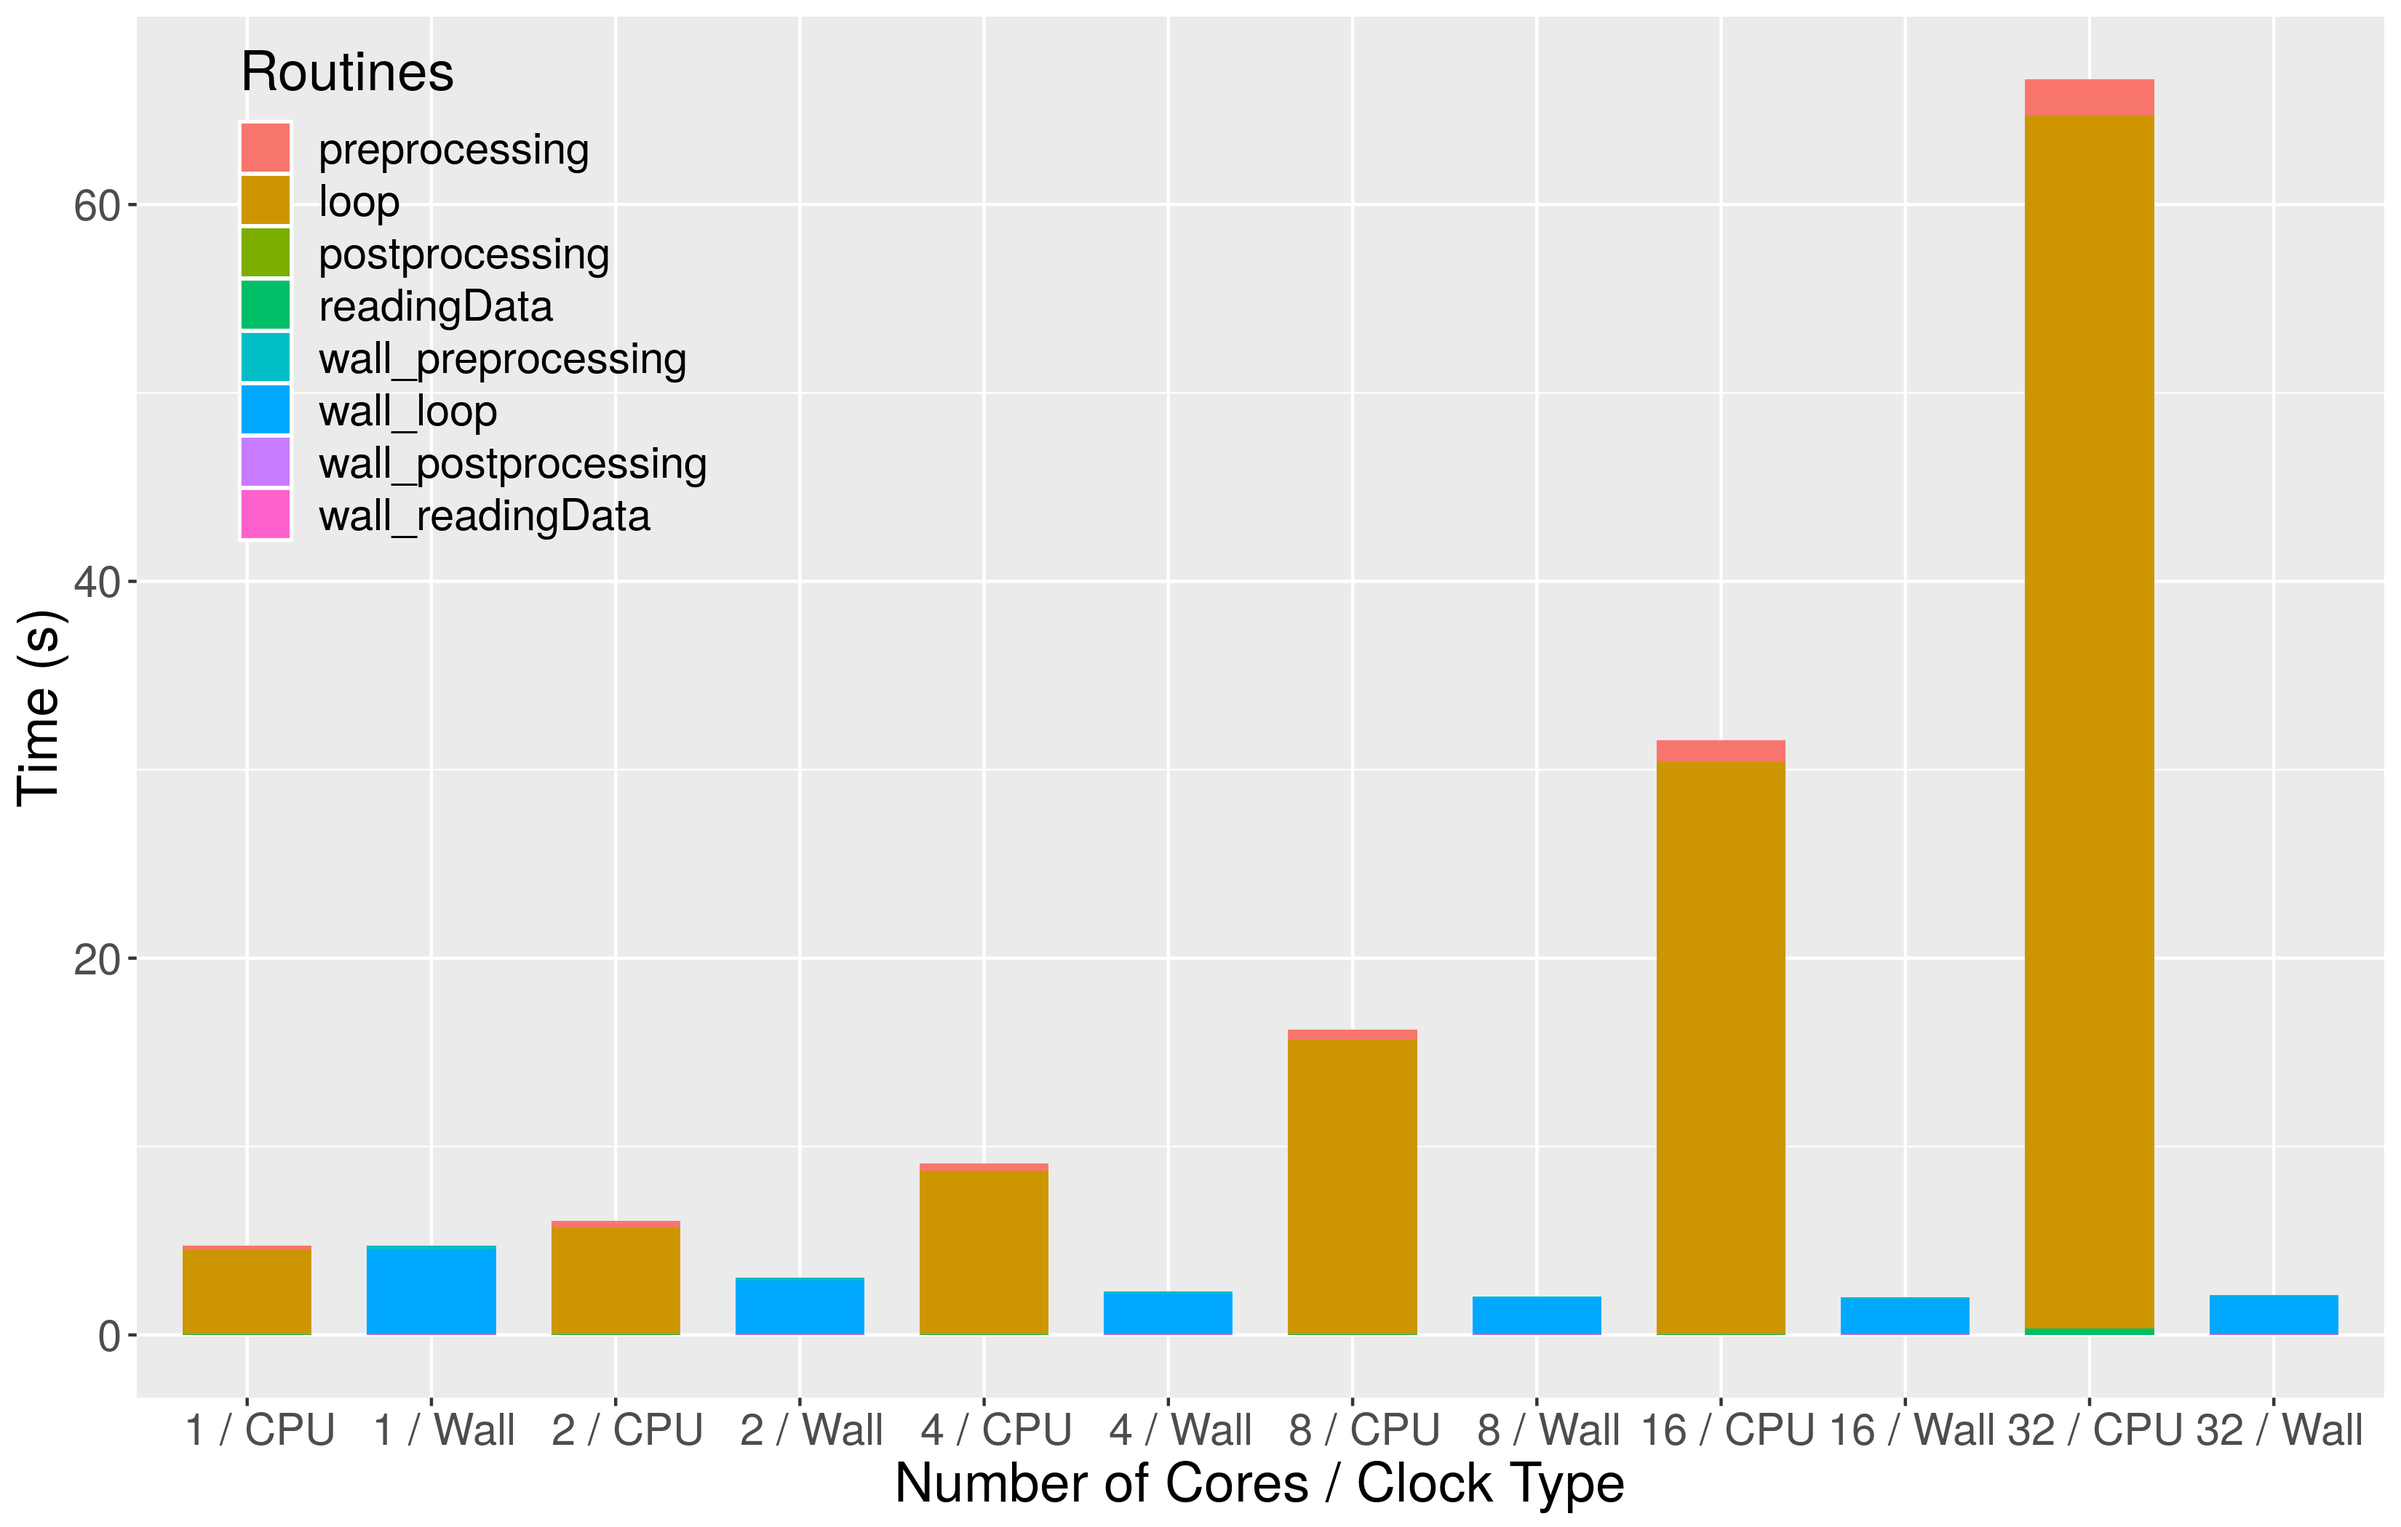
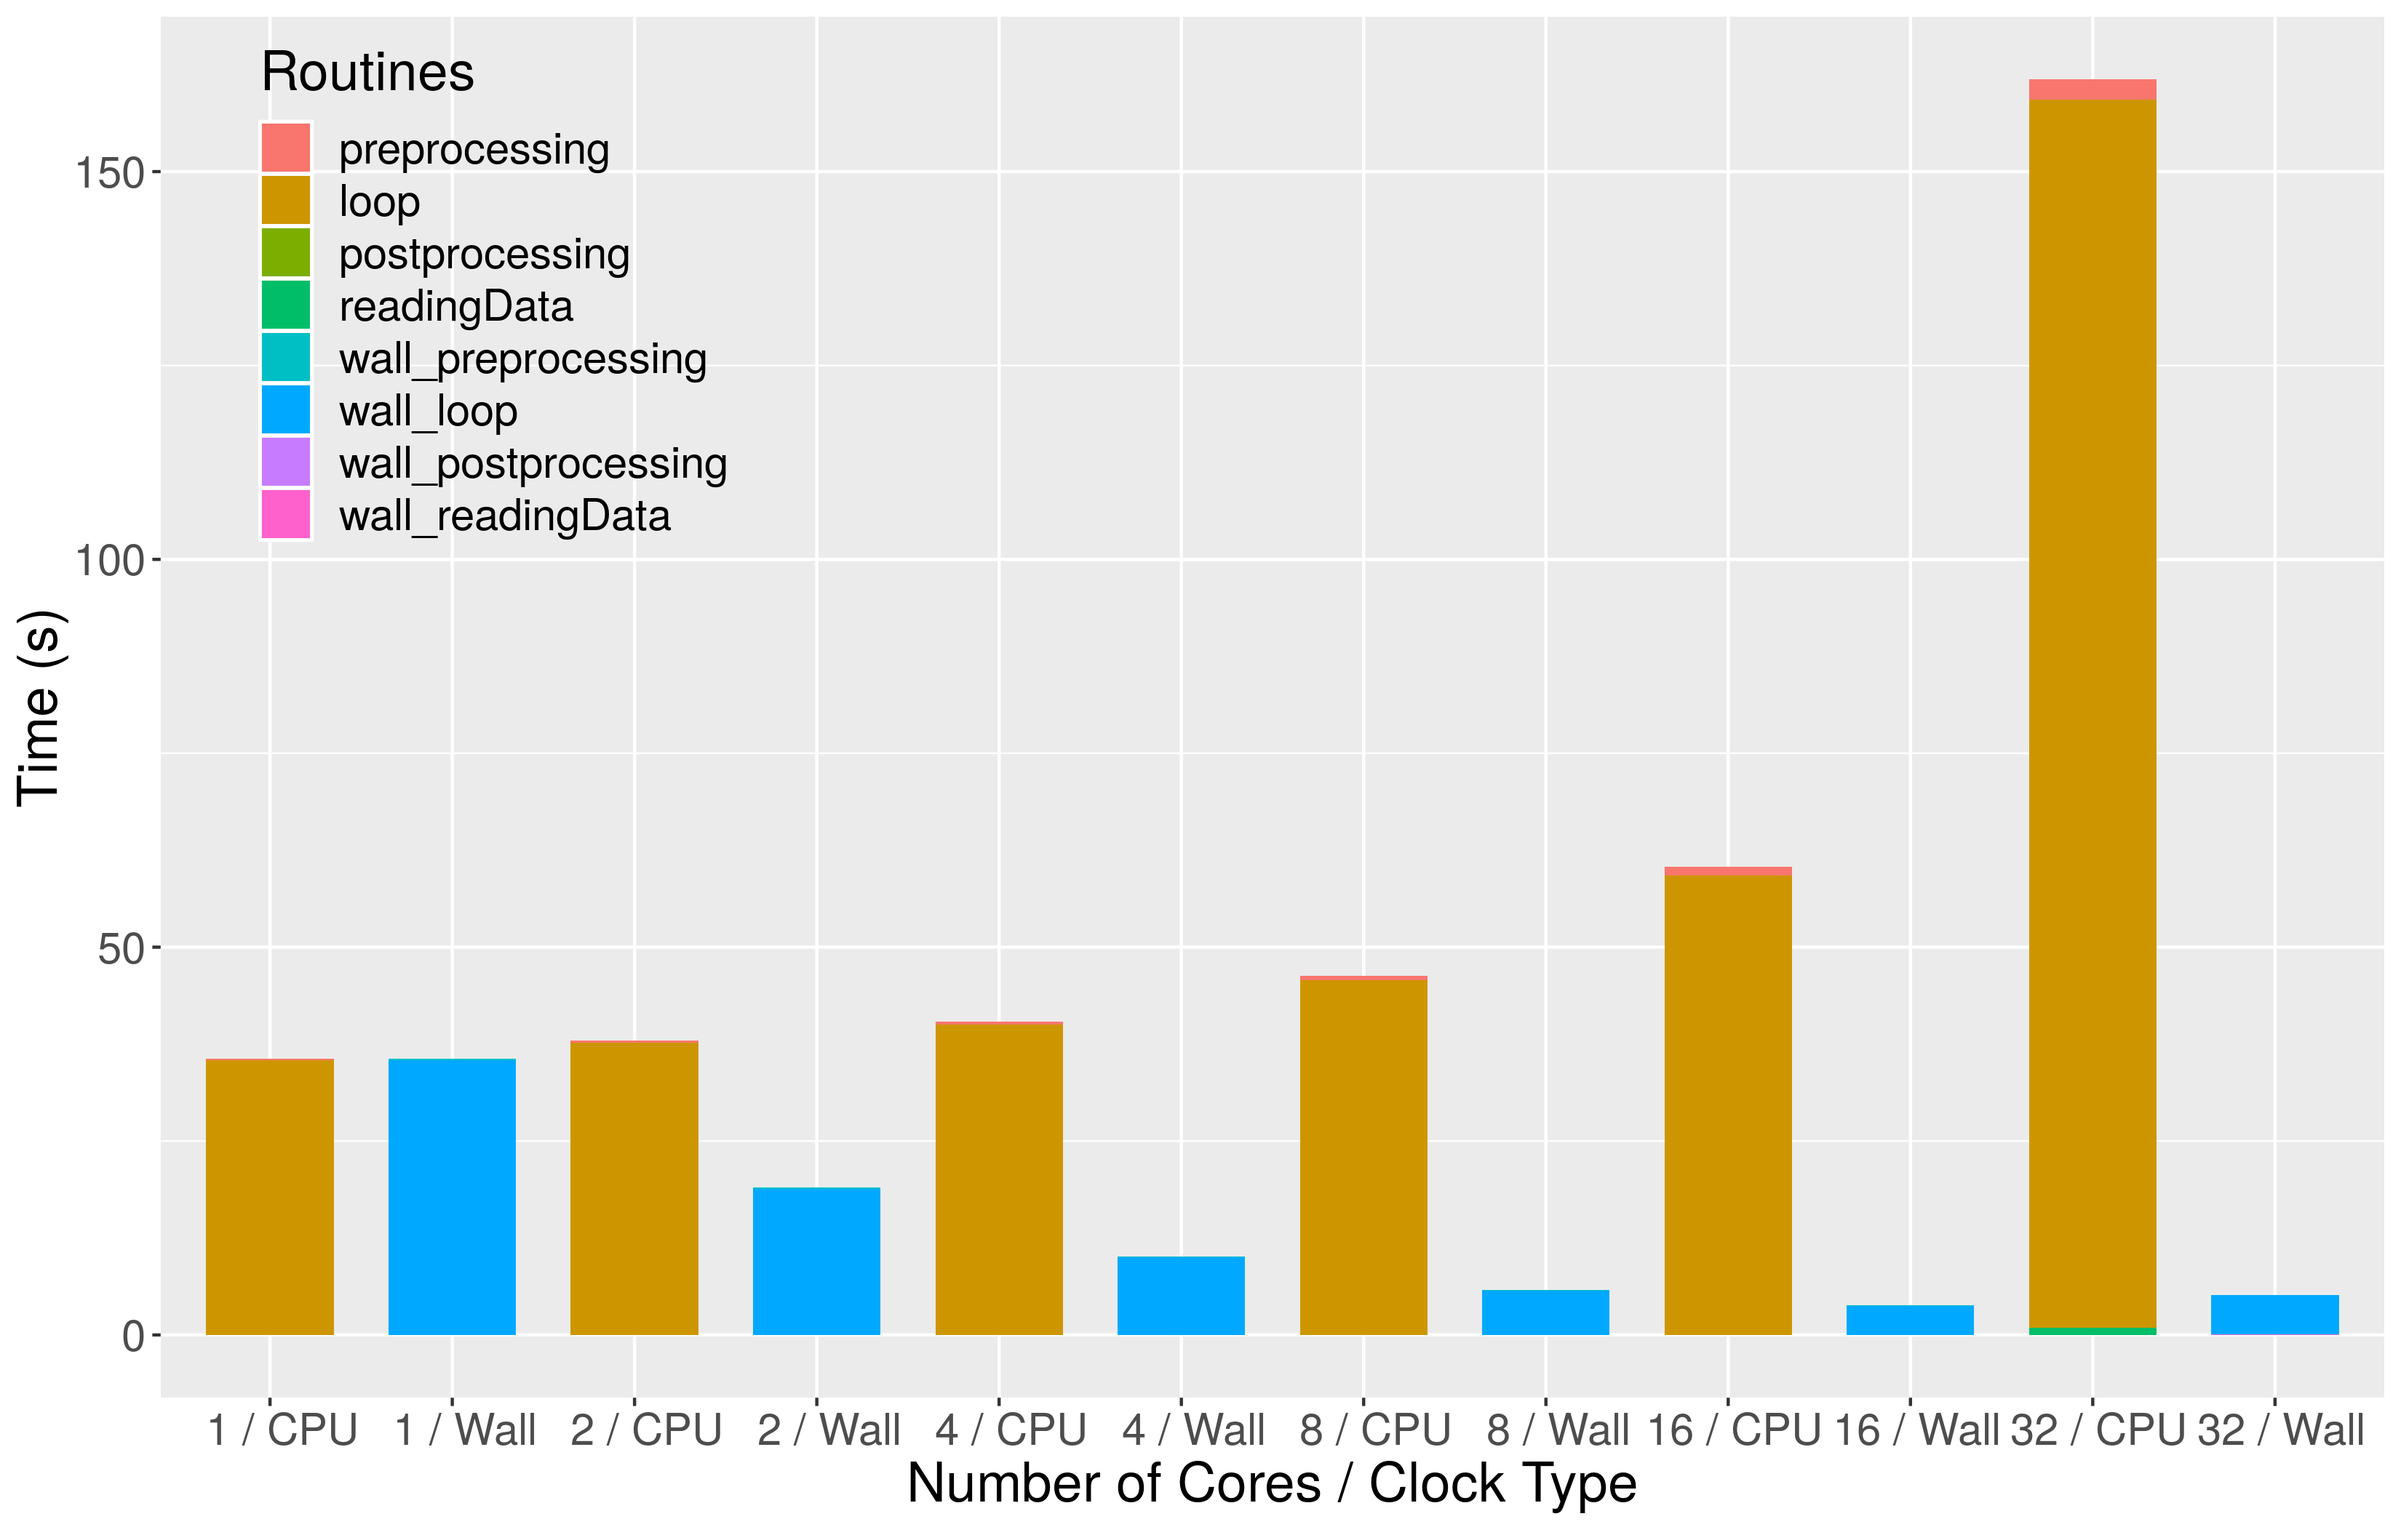
add profile logs

diff --git a/src/parallelJacobi.cpp b/src/parallelJacobi.cpp
@@ -317,11 +317,19 @@ int main(int argc, char** argv) {
     clock_t time_start = clock();
 #endif
 
+#ifdef _WALL_TIME
+    double wtime_start = MPI_Wtime();
+#endif
+
     // Define solution
     Matrix solution;
 
     // Read function name
     runJacobi(A, b, solution, max_it, initialize_func, verbose);
+
+#ifdef _WALL_TIME
+    double wtime_end = MPI_Wtime();
+#endif
 
 #ifdef _PROFILE_TIME
     clock_t time_end = clock();
@@ -330,6 +338,14 @@ int main(int argc, char** argv) {
         double duration_total = (time_end - time_start) / (double) CLOCKS_PER_SEC;
         cout << setprecision(4) << "Total time for the iterative method: "
                 << duration_total << "s" << endl;
+    }
+#endif
+
+#ifdef _WALL_TIME
+    if (world_rank == 0) {
+        double wduration_total = wtime_end - wtime_start;
+        cout << setprecision(4) << "Total wall time for the iterative method: "
+                << wduration_total << "s" << endl;
     }
 #endif
 

diff --git a/src/iterativeSolver.cpp b/src/iterativeSolver.cpp
@@ -247,6 +247,7 @@ shared(max_it, small_resid, D_inv, b, R, A, verbose, solution_new, resids, solut
                     cout << "Iteration " << i_it + 1 << " residual: " << resid_metric << endl;
                 }
             }
+#pragma omp barrier
         }
     }
 
